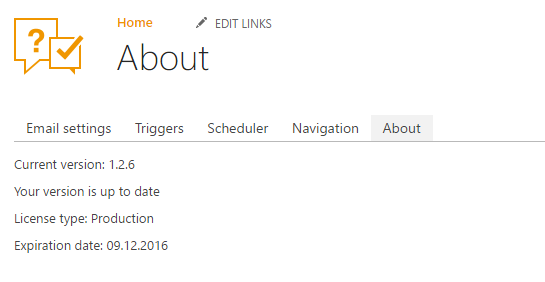
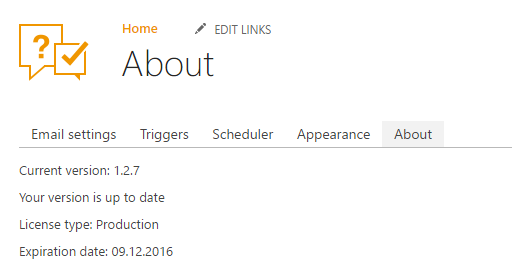
Changes on docs

diff --git a/source/Configuration Guide/Upgrade manager.rst b/source/Configuration Guide/Upgrade manager.rst
@@ -13,35 +13,13 @@ Then click on "About" tab. You will see the interface of upgrade manager.
 
 |UpgradeManager|
 
-On the picture above you can see that HelpDesk has version 1.2.6 and at the moment this version is up to date. Also you can see that license type is "Production" and the expiration date is 09.12.2016.
+On the picture above you can see that HelpDesk has version 1.2.7 and at the moment this version is up to date. Also you can see that license type is "Production" and the expiration date is 09.12.2016.
 
 If version of your HelpDesk is not up to date and your account have "Manage Web" permissions then you will see the list of updates with full description of each update.
 
 |UpdateAvailable|
 
 To install update you can click "Update" button.
-
-Upgrade to version 1.2.6
-------------------------
-
-This update can erase some of settings:
-
-- Notifications will be disabled during update.
-- New tickets and comments creation will not work during update.
-- All modifications of triggers will be lost. You will need to configure triggers from scratch.
-- New triggers, will not use workflows by default, but you will be able to configure them to use old workflows.
-- All modifications of message templates will be lost. You will need to configure them from scratch.
-- Field and list titles will be reset to default.
-- Forms will be reset to default.
-
-New features:
-
-- Possibility to `rollback forms`_.
-- Individual `signature`_ for agent message.
-- Localizable `ticket statuses`_.
-- New `trigger engine`_ with friendly and flexible interface.
-- HelpDesk `uninstall page`_.
-- HelpDesk update page.
 
 Manual steps
 ~~~~~~~~~~~~
@@ -64,9 +42,3 @@ You need to perform some actions manually to complete update:
    :alt: Upgrade Manager
 .. |UpdateAvailable| image:: /_static/img/upgrade-manager-1.png
    :alt: Update Available
-
-.. _rollback forms: Forms%20customization.html#forms-backups
-.. _signature: ../User%20Guide/Contacts.html#signature
-.. _ticket statuses: Statuses%20customization.html
-.. _trigger engine: Triggers.html
-.. _uninstall page: Uninstall%20HelpDesk.html

diff --git a/source/General/Versionhistory.rst b/source/General/Versionhistory.rst
@@ -1,0 +1,47 @@
+Version history
+###############
+
+Upgrade to version 1.2.6
+------------------------
+
+This update can erase some of settings:
+
+- Notifications will be disabled during update.
+- New tickets and comments creation will not work during update.
+- All modifications of triggers will be lost. You will need to configure triggers from scratch.
+- New triggers, will not use workflows by default, but you will be able to configure them to use old workflows.
+- All modifications of message templates will be lost. You will need to configure them from scratch.
+- Field and list titles will be reset to default.
+- Forms will be reset to default.
+
+New features:
+
+- Possibility to `rollback forms`_.
+- Individual `signature`_ for agent message.
+- Localizable `ticket statuses`_.
+- New `trigger engine`_ with friendly and flexible interface.
+- HelpDesk `uninstall page`_.
+- HelpDesk update page.
+
+Upgrade to version 1.2.7
+------------------------
+
+This update will reset form customizations by applying new text editor.
+
+New features:
+
+- New rich text editor for comments.
+- Ability to paste pictures to text editor.
+- Ability to upload pictures with drag and drop.
+- Guided tour to users on first entrance.
+- Getting started video and quick tips in knowlege base.
+- Automatic creation of contact on user first visit
+- Triggers UI bug fixes.
+- Incorrect theme color bug fix.
+- Other minor bug fixes.
+
+.. _rollback forms: Forms%20customization.html#forms-backups
+.. _signature: ../User%20Guide/Contacts.html#signature
+.. _ticket statuses: Statuses%20customization.html
+.. _trigger engine: Triggers.html
+.. _uninstall page: Uninstall%20HelpDesk.html

diff --git a/source/index.rst b/source/index.rst
@@ -12,6 +12,7 @@ All documentation articles
       :name: generaltoc
       :maxdepth: 1
  
+      General/Version history
       Privacy policy <https://plumsail.com/privacy-policy/helpdesk/>
       License agreement <https://plumsail.com/license-agreement/>
 
